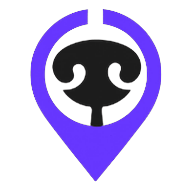
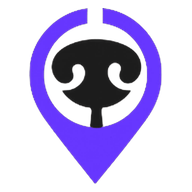
Minimapa real en detalle de lugar + icono PWA mas grande
- LugarDetalle: agrega un minimapa (Leaflet/OSM, no interactivo, tap
  abre Google Maps) con el pin del lugar -- antes solo se mostraba la
  direccion en texto. Nuevo componente components/PlaceMiniMap.jsx.
- Icono PWA: el PNG fuente tenia mucho margen blanco (el logo ocupaba
  ~68% del ancho / 90% del alto del canvas) y ademas se usaba el MISMO
  archivo para purpose 'any' y 'maskable' combinados -- el recorte
  adaptativo de Android lo encogia aun mas, se veia chiquito en el
  home screen. Ahora hay icono 'any' recortado para llenar el canvas
  (mas grande y nitido) y un icono 'maskable' separado con su propio
  margen de seguridad correcto para el recorte circular/squircle de
  Android.

diff --git a/src/components/PlaceMiniMap.jsx b/src/components/PlaceMiniMap.jsx
@@ -1,0 +1,65 @@
+import React from 'react'
+import { MapContainer, TileLayer, Marker } from 'react-leaflet'
+import L from 'leaflet'
+
+const categoryEmoji = {
+  vet: '🩺',
+  groom: '✂️',
+  park: '🌳',
+  shop: '🛍️',
+  hotel: '🏨',
+  restaurant: '🍽️',
+  emergency24h: '🚨',
+}
+
+const categoryColors = {
+  vet:          '#7C3AED',
+  groom:        '#EC4899',
+  park:         '#16A34A',
+  shop:         '#D97706',
+  hotel:        '#0F9B8E',
+  restaurant:   '#F97316',
+  emergency24h: '#E11D48',
+}
+
+function pinIcon(category) {
+  const color = categoryColors[category] || '#7C3AED'
+  const emoji = categoryEmoji[category] || '📍'
+  return L.divIcon({
+    className: '',
+    html: `<div style="width:34px;height:34px;border-radius:50% 50% 50% 0;background:${color};transform:rotate(-45deg);display:flex;align-items:center;justify-content:center;box-shadow:0 2px 6px rgba(0,0,0,0.3);border:2px solid white;">
+      <span style="transform:rotate(45deg);font-size:15px;">${emoji}</span>
+    </div>`,
+    iconSize: [34, 34],
+    iconAnchor: [17, 34],
+  })
+}
+
+// Minimapa no interactivo de un solo lugar, para el detalle (LugarDetalle.jsx).
+// Antes esa pantalla solo mostraba la direccion en texto + un link a Google
+// Maps; esto le da una referencia visual real de donde queda sin salir de
+// la app. El tap para abrir Google Maps lo maneja el contenedor padre.
+export default function PlaceMiniMap({ lat, lng, category }) {
+  const position = [lat, lng]
+  return (
+    <div className="absolute inset-0" style={{ pointerEvents: 'none' }}>
+      <MapContainer
+        key={`${lat.toFixed(5)},${lng.toFixed(5)}`}
+        center={position}
+        zoom={16}
+        style={{ height: '100%', width: '100%', background: '#E5E7EB' }}
+        zoomControl={false}
+        attributionControl={false}
+        dragging={false}
+        scrollWheelZoom={false}
+        doubleClickZoom={false}
+        touchZoom={false}
+        boxZoom={false}
+        keyboard={false}
+      >
+        <TileLayer url="https://{s}.tile.openstreetmap.org/{z}/{x}/{y}.png" />
+        <Marker position={position} icon={pinIcon(category)} />
+      </MapContainer>
+    </div>
+  )
+}

diff --git a/src/pages/LugarDetalle.jsx b/src/pages/LugarDetalle.jsx
@@ -3,6 +3,7 @@ import { ArrowLeft, MapPin, Clock, Star, Stethoscope, Scissors, Trees, ShoppingB
 import { supabase } from '../supabase'
 import { useAuth } from '../AuthContext'
 import { useLanguage } from '../LanguageContext'
+import PlaceMiniMap from '../components/PlaceMiniMap'
 
 const catIcons  = { vet: Stethoscope, groom: Scissors, park: Trees, shop: ShoppingBag, hotel: Building2, restaurant: Utensils, emergency24h: AlertTriangle }
 const catColors = {
@@ -279,6 +280,17 @@ export default function LugarDetalle({ place, onBack, saved, onToggleSave, onRep
 )}
             </div>
           </div>
+
+          {place.lat && place.lng && (
+            <div
+              onClick={() => window.open(mapsUrl, '_blank')}
+              className="relative overflow-hidden rounded-xl mt-3 cursor-pointer"
+              style={{ height: 120 }}
+            >
+              <PlaceMiniMap lat={parseFloat(place.lat)} lng={parseFloat(place.lng)} category={place.category} />
+              <div className="absolute inset-0" style={{ boxShadow: 'inset 0 0 0 1px rgba(0,0,0,0.06)' }} />
+            </div>
+          )}
         </div>
 
         {currentPet?.profile && (

diff --git a/vite.config.js b/vite.config.js
@@ -41,17 +41,19 @@ export default defineConfig({
     src: 'web-app-manifest-192x192.png',
     sizes: '192x192',
     type: 'image/png',
+    purpose: 'any',
   },
   {
     src: 'web-app-manifest-512x512.png',
     sizes: '512x512',
     type: 'image/png',
+    purpose: 'any',
   },
   {
-    src: 'web-app-manifest-512x512.png',
+    src: 'maskable-icon-512x512.png',
     sizes: '512x512',
     type: 'image/png',
-    purpose: 'any maskable',
+    purpose: 'maskable',
   },
 ],
       },